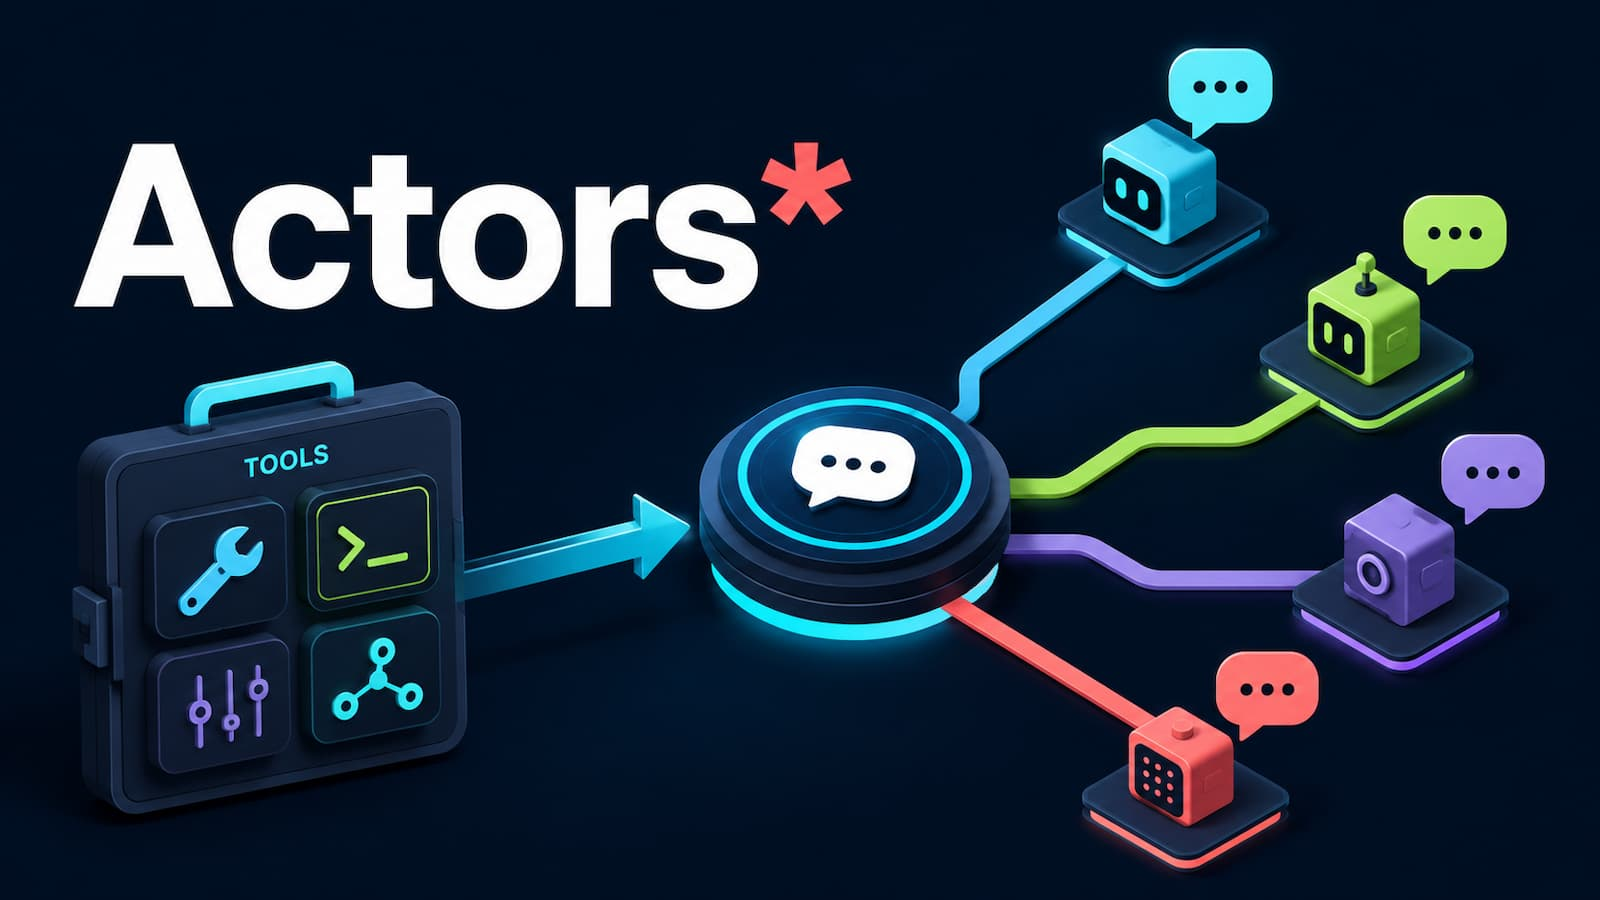
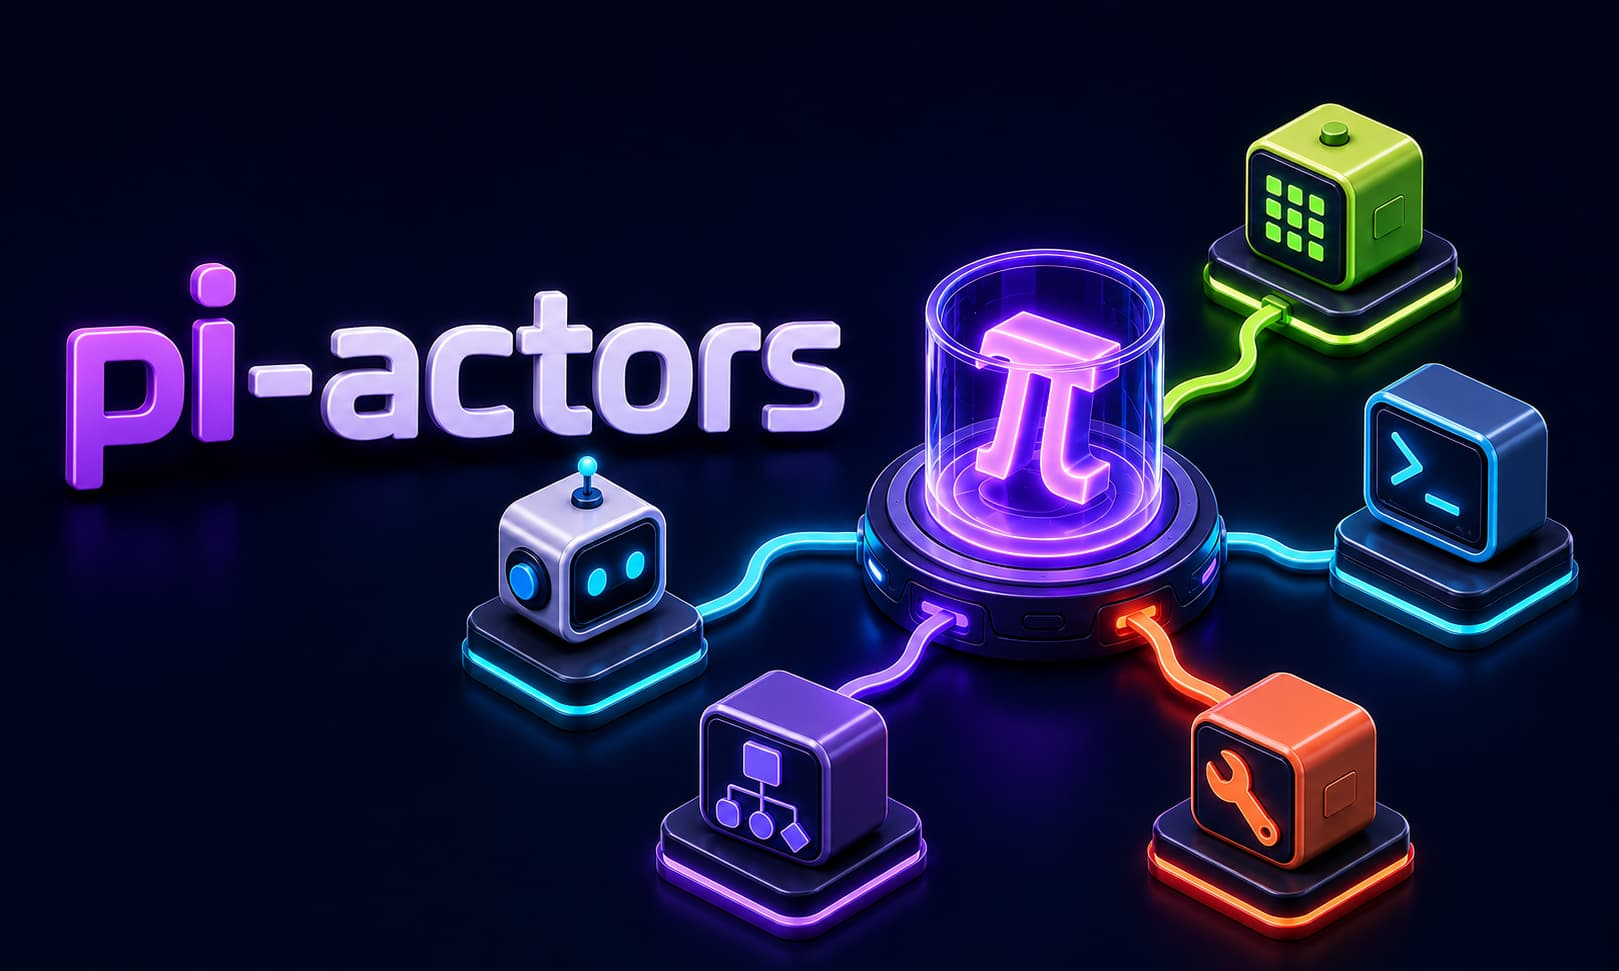
0.48.0: define host-coordinated swarms

diff --git a/skills/swarm/references/development-swarm.md b/skills/swarm/references/development-swarm.md
@@ -14,6 +14,39 @@ Use a development swarm only when all are true:
 
 Do not parallelize implementation when tasks need the same central files, semantic ordering dominates wall-clock time, or the likely conflicts would invalidate the decomposition. Use planning or review first.
 
+## Coordinator role separation
+
+In a host-coordinator topology, the current Pi instance owns the declarative outcome and participant graph rather than acting as the default implementation worker. It may receive intent through Telegram or another companion extension, but transport does not become a gateway or gain hidden instance-creation authority; participant creation remains an explicit actor-kernel Run.
+
+The coordinator should:
+
+- Translate high-level intent into bounded task cards and dependency edges.
+- Keep user authority, shared contracts, integration order, and final validation local.
+- Remain available for checkpoints, permissions, conflicts, and changing evidence.
+- Consume terminal handoffs, durable artifacts, and Trace attention instead of mirroring participant work.
+- Check overdue work on an evidence-based timer; never replace event-driven completion with a rapid polling loop.
+
+A participant should:
+
+- Own one concrete execution or evidence boundary.
+- Avoid global orchestration and undeclared participant creation.
+- Return a bounded handoff that lets the coordinator decide without replaying the entire task.
+
+Use one ordinary Run under `actors` when only one worker is delegated. Activate this development-swarm protocol when two or more participants, parallel ownership, or explicit integration edges exist. Keep trivial single-boundary work inline when delegation overhead has no compensating value.
+
+## Reasoning profiles
+
+| Role | Default | Raise or fan out when |
+| --- | --- | --- |
+| Bounded implementation author | Reasoning off | The card explicitly owns unresolved diagnosis or design judgement |
+| Reviewer | Medium reasoning, clean context | Stakes require independent lenses or repeated judges |
+| Synthesizer / integrator | Medium reasoning | Evidence conflicts, shared contracts move, or merge order is semantic |
+| Coordinator | Sufficient for decomposition and decisions | Scope, authority, or architecture remains unresolved |
+
+Prefer independent review after implementation over asking one author thread to implement, retain all local assumptions, and then certify itself. When risk justifies the cost, use multiple independent reviewers: different lenses increase breadth, while repeated judges increase confidence. Preserve minority high-impact findings and merge only evidence-backed conclusions.
+
+More reviewers are not automatically better. Do not fan out when they would inspect unstable code, share contaminated context, repeat one unsupported claim, or exceed the value of the decision. Never change an already-running participant solely to enforce a newer profile; add a fresh review boundary if evidence remains open.
+
 ## Decompose by ownership
 
 Prefer mutation-zone ownership over broad feature labels.
@@ -38,6 +71,9 @@ Goal:
 Non-goals:
 Allowed files or logical scope:
 Avoided files or shared contracts:
+Execution profile:
+Isolation mode: exclusive paths | isolated worktree | artifact-only
+Shared surfaces reserved for integrator:
 Expected artifact or patch:
 Required evidence:
 Checks:
@@ -59,6 +95,14 @@ A useful task card names the smallest scope that can independently reach a valid
 - Release ownership at terminal handoff or explicitly transfer it through the integrator.
 
 If a participant discovers that another scope must change, it emits a dependency or conflict report and stops that edge. The coordinator either transfers ownership, serializes the work, or replans.
+
+## Isolation modes
+
+- `Exclusive paths`: Writers share one worktree only when their complete writable path sets are disjoint and the shared baseline remains stable.
+- `Isolated worktree`: Use when compilation, generated files, imports, or likely dependencies can touch shared repository state.
+- `Artifact-only`: Use for reports, inventories, proposed patches, fixtures, or reviews that the integrator applies later.
+
+The integrator exclusively owns `BACKLOG.md`, `CHANGELOG.md`, lockfiles, generated metadata, public schemas, release manifests, and cross-domain configuration by default. A task card may transfer one of these surfaces to another participant, but never create concurrent ownership. Authors report required shared-surface changes in handoff instead of applying them outside scope.
 
 ## Coordinator checkpoints
 
@@ -129,13 +173,14 @@ The integrator resolves from both reports. Architecture conflicts stop affected 
 
 The named integrator:
 
-1. reads task cards, handoffs, dependency edges, and conflict reports;
-2. verifies each result stayed within scope;
-3. integrates in dependency order, one ownership edge at a time;
-4. resolves conflicts while preserving stated invariants;
-5. runs checks after risky edges and the full agreed validation at the end;
-6. obtains fresh review for conflict-resolved or shared-contract changes;
-7. reports integrated tasks, rejected or deferred work, checks, and residual risks.
+1. freezes new author mutations and preserves every terminal handoff before integration;
+2. reads task cards, handoffs, dependency edges, and conflict reports;
+3. verifies each result stayed within scope;
+4. integrates in dependency order, one ownership edge at a time;
+5. resolves conflicts while preserving stated invariants;
+6. runs checks after risky edges and the full agreed validation at the end;
+7. obtains fresh review for conflict-resolved or shared-contract changes;
+8. reports integrated tasks, rejected or deferred work, checks, and residual risks.
 
 Do not treat a clean merge, participant-local tests, or a collection of terminal Runs as integrated completion. Completion requires retained shared state plus coordinator-owned validation evidence.
 

diff --git a/skills/swarm/SKILL.md b/skills/swarm/SKILL.md
@@ -9,6 +9,25 @@ Use multi-actor execution only when at least two scopes or evidence lenses are m
 
 Read `actors` first for generic Recipe, spawn, Run, Trace, Control, artifact, and lifecycle operation. This Skill owns only multi-actor methodology: decomposition, scope ownership, independence, synthesis, integration, and completion proof.
 
+## Coordinator topology
+
+A swarm can be coordinated without an external gateway. In this model the current host agent is the declarative control plane, the actor kernel creates explicit participant Runs, and companion transports provide ingress or presence without owning hidden agent creation. The coordinator retains user authority, global context, decomposition, shared-surface ownership, integration, and final validation; participants own bounded concrete tasks and report evidence.
+
+This resembles gateway orchestration in dependency direction but not in ownership: the coordinator is itself an agent instance with inspectable Runs, not an infrastructure service that implicitly creates sessions. Preserve that distinction in prompts, docs, recovery, and target routing.
+
+Once work is delegated, keep the coordinator available for decisions and integration instead of duplicating participant implementation. Wait for terminal follow-up by default; use meaningful attention or evidence-based timers for overdue work rather than a tight inspection loop.
+
+## Reasoning allocation
+
+Allocate reasoning by role instead of making one long thread implement and judge itself:
+
+- Bounded implementation/authorship participants default to reasoning off when the task card fixes scope, invariants, checks, and escalation. Enable reasoning only when unresolved diagnosis or local design judgement is part of their assignment.
+- Reviewers default to independent medium reasoning and clean context. For consequential work, several reviewers with distinct lenses or repeated independent judgement usually provide better error discovery than increasing one author's reasoning and relying on self-review.
+- Synthesizers and integrators use medium reasoning because they reconcile evidence, conflicts, shared contracts, and retained state.
+- The coordinator decides whether review fanout is worth its cost, preserves dissent, and never treats reviewer count as evidence quality by itself.
+
+Do not change a running participant's profile merely because policy changed. Replace or add a later independent review only when fresh evidence is still needed.
+
 ## Choose the shape
 
 | Need | Shape | Primary Recipe |
@@ -29,18 +48,22 @@ The coordinator owns the whole result even when participants choose local implem
 1. State the goal, non-goals, evidence standard, integration owner, and stop condition.
 2. Partition work into disjoint read or write scopes. Give shared contracts one owner.
 3. Give each participant a bounded task card with allowed scope, avoided scope, expected artifact, checks, and escalation rule.
-4. Preflight required model/tool access before expensive fanout.
-5. Launch independent work without cross-contaminating lenses. Do not let participants silently expand scope.
-6. Preserve every terminal result, including failures, disagreements, and partial evidence.
-7. Merge through one named synthesizer or integrator. Resolve conflicts from explicit intent and invariants, not textual convenience.
-8. Run fresh integrated validation and, for consequential outputs, an independent post-merge review.
-9. Report complete, degraded, or insufficient-data status honestly; name residual owners and next actions.
+4. Assign each participant an explicit execution profile and isolation mode under the reasoning-allocation contract.
+5. Preflight required model/tool access before expensive fanout.
+6. Launch independent work without cross-contaminating lenses. Do not let participants silently expand scope.
+7. Preserve every terminal result, including failures, disagreements, and partial evidence; avoid doing participant work in the coordinator while a valid owner remains active.
+8. Merge through one named synthesizer or integrator. Resolve conflicts from explicit intent and invariants, not textual convenience.
+9. Run fresh integrated validation and, for consequential outputs, an independent post-merge review.
+10. Report complete, degraded, or insufficient-data status honestly; name residual owners and next actions.
 
 ## Scope and coordination rules
 
 - One writable scope has one owner. Parallel readers may share a stable target.
 - Public contracts, schemas, central configuration, and integration surfaces require exclusive ownership.
-- Participants record out-of-scope needs instead of opportunistically editing them.
+- Concurrent writers use disjoint paths, isolated worktrees, or declared patch/artifact outputs.
+- Shared ledgers, lockfiles, generated contracts, metadata, schemas, release surfaces, and cross-domain configuration belong to one named integrator unless a task card transfers one surface to another exclusive owner.
+- Participants record shared-surface and other out-of-scope needs in handoff instead of editing them opportunistically.
+- Reasoning and model profiles are task-card inputs, not implicit properties of the whole swarm.
 - Coordinator checkpoints are bounded decision requests, not free-form actor chat.
 - Locks support scope ownership but do not replace coordinator judgement. Every lock must be bounded and releasable.
 - One integrator owns merge order, conflict resolution, and final validation.

diff --git a/CHANGELOG.md b/CHANGELOG.md
@@ -1,5 +1,11 @@
 # Changelog
 
+> Each release keeps at most 8 outcome records of at most 512 characters.
+
+## 0.48.0: Host-Coordinated Swarms
+
+- `Coordinator And Swarm Methodology`: Defined gatewayless host coordination with companion transports as presence only; the coordinator accepts declarative outcomes, creates explicit Runs, stays available, and owns integration/final validation. Reasoning is role-allocated: bounded authors default off, independent reviewers/integrators use medium, and the coordinator selects evidence-worthy fanout. Swarm retains overhead admission, disjoint ownership, isolation, mutation freeze, and event/timer observation.
+
 ## 0.47.0: Agent-Native Actor UX
 
 - `Skill-First Operation`: Replaced the injected product manual with a compact Skill-routing meta-protocol. `actors` is now the decision-first authority for generic Recipe/tool/Run mechanics, capability Skills own capability choice, and `swarm` owns only multi-actor methodology.
@@ -7,7 +13,6 @@
 - `Registration Truth UX`: Registration now reports logical source, effective required/optional args, persistence, registry/host/active-tool state, callability, activation boundary, and bounded next actions without raw config or executable template payloads. Failed activation retains rollback guarantees.
 - `Focused Diagnosis`: Added `inspect target=recipes view=doctor identity=<skill>/<recipe>` with active ownership, exact resolvability, partial-catalog state, portable source, generation, rejection, and next actions. Tool status now includes source, effective args, activation boundary, and separate spawn/tool usage.
 - `Capability Protocols`: Rewrote all six Skill descriptions as routing triggers and made Media, Artifacts, Project Work, and Recipe Memory compact agent operating guides. Human installation, product, catalog, development, and release guidance remains independently owned by README/docs.
-- `Swarm Methodology`: Reduced Swarm to overhead admission, decomposition, disjoint ownership, lenses, quorum, conflict evidence, integration, and stop rules; moved deep review/development methods to Skill-local references and delegated all generic Run/Recipe mechanics to `actors`.
 - `Safe Recovery`: Inactive, missing, duplicate, removed, malformed, rejected, partial-catalog, and inactive-tool failures now preserve logical identity, redact physical Skill paths, and teach bounded public diagnosis/retry actions without copied contracts, helper paths, shell evaluation, backgrounding, or spawn substitution.
 - `Journey and Package Evidence`: Added deterministic Journeys A-G, reviewed fresh-agent Journey B evidence, and packed first-session parity for final Skills/prompt/references, `from` registration, source-equivalent schema, same-session activation, focused doctor, actual tool invocation, and unshipped `.agents/` evidence.
 

diff --git a/skills/actors/SKILL.md b/skills/actors/SKILL.md
@@ -76,6 +76,17 @@ Then:
 
 Use direct delegation for the same maintained capability under a persistent name or narrower defaults. Use named imports only when one Recipe graph contains reusable child nodes. See [persistent tools](./references/persistent-tools.md) and [Recipes](./references/recipes.md).
 
+## Local coordinator topology
+
+There are two distinct multi-instance shapes:
+
+- A gateway-centric system owns ingress, agent-instance creation, routing, and lifecycle outside the agents.
+- A host-coordinator system keeps the current Pi instance as the control plane; companion extensions such as Telegram provide presence, while pi-actors creates explicit local Runs for delegated work.
+
+In host-coordinator mode, the top-level agent receives declarative outcomes, preserves user authority and global context, delegates bounded concrete execution, and owns integration plus final validation. It is not merely another worker after delegation begins. One bounded implementation worker normally runs with reasoning off; consequential output receives a separate reasoning-enabled review. Several independent participants or reviewers additionally use `swarm`.
+
+Delegation is not mandatory for every prompt. Work inline when one short bounded act has one natural validation boundary and spawning would add more coordination than isolation, latency hiding, clean context, or continued coordinator availability can repay. For admitted delegation, prefer terminal follow-up and durable Trace/artifacts; inspect on meaningful attention, operator request, or an evidence-based overdue timer rather than busy polling.
+
 ## Run workflow
 
 A Run is one concrete execution of a Recipe:

diff --git a/README.md b/README.md
@@ -11,6 +11,12 @@ Run = Recipe + Trace + Control
 
 An **actor** is any runnable local capability: a script, tool, service, pipeline, or subagent. A **Recipe** is its reusable executable definition. `spawn` creates a **Run**—one concrete actor instance—which captures its Recipe, appends observable **Trace**, and may consume actor-local **Control**.
 
+## Local Coordinator Model
+
+Multi-instance systems commonly put instance creation and routing in an external gateway. pi-actors supports a different topology: the current Pi instance remains the coordinator, companion extensions such as Telegram provide presence, and explicit Runs perform bounded delegated work. The coordinator receives high-level outcomes, decomposes them, stays available for decisions, and owns integration plus final validation instead of becoming another undifferentiated worker.
+
+This topology does not require every task to become a subagent. Short work with one natural validation boundary stays inline; delegation pays when clean context, asynchronous execution, independent judgement, parallel ownership, or coordinator availability exceeds its coordination cost. Bounded implementation can run with reasoning off while the coordinator selectively launches clean-context reasoning-enabled reviewers; several independent reviews can provide broader evidence than one author self-review. Terminal follow-ups, durable Trace, and declared artifacts replace tight polling loops.
+
 ## Install
 
 ```bash
